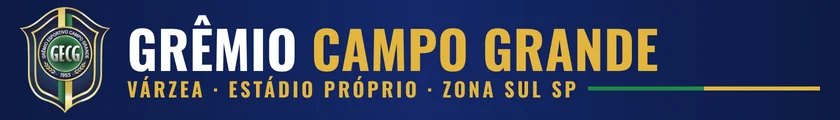
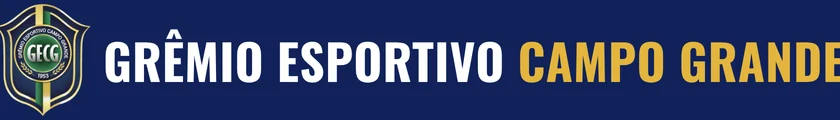
Grêmio Esportivo Campo Grande: nome inteiro, placas no formato da Tidex e mockup pro cliente
- Faixas 840x120 pra Vadico, OittoLabs e Grêmio (cheio: true), todas do tamanho da Tidex
- Aviso da comunidade com o escudo dentro da caixa
- Página de mockup com todos os lugares onde a marca aparece + bancada scripts/teste-parceiro

Claude-Session: https://claude.ai/code/session_012GPrTDbpvrApA6DArkzCpE

diff --git a/src/escalacao/patrocinio.ts b/src/escalacao/patrocinio.ts
@@ -13,8 +13,9 @@ import { buscaVitrine, podioPassada } from './vitrine-dados' // 🏆 pódio da s
 import { clasLiberado } from './cla-gate' // ⚔ pódio dos clãs no letreiro (21/10)
 import VADICO_LOGO_ALFA from './img/patro-vadico-alfa.webp'
 import TIDEX_LOGO from './img/patro-tidex.webp' // 🤖 Tidex (19/10): Copa dos 8, placa do campinho e telão no lugar da Max Joias
+import VADICO_PLACA from './img/placa-vadico.webp' // 🏟 23/10: placas no padrão da Tidex (faixa deitada que enche a placa)
+import OITTO_PLACA from './img/placa-oittolabs.webp'
 import GECG_PLACA from './img/patro-gecg-placa.webp' // ⚽ Grêmio Campo Grande (23/10): placa deitada (escudo + nome) revezando com a Tidex
-import OITTO_LOGO from './img/patro-oittolabs.webp' // 🧪 OittoLabs (21/10): Copa dos 8, Copa do Brasil da carreira, placas, telão e Master
 
 export type Patrocinio = { nome: string; emoji: string }
 export type Competicao = 'copa8' | 'liberta' | 'world' | 'club-world' | 'league' | 'champions' | 'career-league' | 'career-copa' | 'regional' | 'career-varzea' // career-varzea = a liga da carreira na VÁRZEA (23/10) · regional = Copas Regionais (Rio × SP, Sul-Minas, Nordeste) — 23/10 · career-league = a Liga Legends da CARREIRA (19/10) · career-copa = a Copa do Brasil da carreira (21/10)
@@ -133,8 +134,8 @@ const OITTO_GIRO = '🧪 OittoLabs · Contabilidade e BPO financeiro pra sua emp
 // ⚽ Grêmio Esportivo Campo Grande (23/10): clube de várzea com estádio próprio (~10 mil lugares) em Jurubatuba, Zona Sul de SP;
 // objetivo deles = gente no estádio nos fins de semana e aluguel do campo pra torneios. A linha de verdade mora em
 // `esc_anuncios_fixos`; isto é a reserva.
-const GECG_GIRO = '⚽ Grêmio Campo Grande · Estádio próprio na Zona Sul SP · Vem pro jogo · Clique aqui'
-const GECG_ZAP = 'https://wa.me/5511976509180?text=' + encodeURIComponent('Olá! Vim pelo Leilão Legends e queria saber dos jogos do Grêmio Campo Grande no fim de semana.')
+const GECG_GIRO = '⚽ Grêmio Esportivo Campo Grande · Estádio próprio na Zona Sul SP · Clique aqui'
+const GECG_ZAP = 'https://wa.me/5511976509180?text=' + encodeURIComponent('Olá! Vim pelo Leilão Legends e queria saber dos jogos do Grêmio Esportivo Campo Grande no fim de semana.')
 const GIRO_MANUAIS: { texto: string; cor: string; link?: string }[] = [
   { texto: '▶ Kelvin Oliveira · Siga o novo canal do K9 no YouTube', cor: '#FFC400', link: 'https://www.youtube.com/@kelvink9oliveira' },
   { texto: TIDEX_GIRO, cor: '#FFC400', link: TIDEX_ZAP }, // 🤖 19/10: no lugar da Max Joias
@@ -196,20 +197,23 @@ export function releAnuncios() { lidoEm = 0; carregaAvulsos() }
 // 🏟 PLACAS ATRÁS DOS GOLS (17/10, Diego escolheu a ideia 1 do mockup `scripts/mockups/campinho-outras-ideias.png`: *"perfeito
 // pode fazer mas no momento coloque Vadico Veículos e Max Joias"*). Uma placa em cima e outra embaixo de todo campinho, cada uma
 // numa marca, trocando juntas a cada 7 s no MESMO relógio do Anúncio do dia. Com 1 marca só, a outra placa mostra Leilão Legends.
-export type PlacaCampo = { nome: string; logo?: string; prop?: number; fundo: string }
+export type PlacaCampo = { nome: string; logo?: string; prop?: number; fundo: string; cheio?: boolean } // cheio = a arte já é a FAIXA inteira (fundo incluso): ocupa a placa de ponta a ponta na altura
 const PLACAS_CAMPO: PlacaCampo[] = [
-  { nome: 'Vadico Veículos', logo: VADICO_LOGO_ALFA, prop: 496 / 140, fundo: '#ffffff' },
-  { nome: 'OittoLabs', logo: OITTO_LOGO, prop: 331 / 120, fundo: '#ffffff' }, // 🧪 21/10: revezando com a Vadico (cima ↔ baixo), igual placa de estádio
+  // 🏟 23/10 (Diego: "ajustar os patrocínios existentes p se enquadrar e ficar parecido com o da Tidex"): cada marca virou uma FAIXA
+  //    deitada do mesmo formato da Tidex (840×120: logo + frase), então todas enchem a placa do mesmo jeito.
+  { nome: 'Vadico Veículos', logo: VADICO_PLACA, prop: 840 / 120, fundo: '#ffffff', cheio: true },
+  { nome: 'OittoLabs', logo: OITTO_PLACA, prop: 840 / 120, fundo: '#ffffff', cheio: true }, // 🧪 21/10: revezando com a Vadico (cima ↔ baixo), igual placa de estádio
   { nome: 'Tidex', logo: TIDEX_LOGO, prop: 837 / 120, fundo: '#0B1220' },
   // ⚽ 23/10 (Diego: "reveza com a Tidex… como é placa de campinho precisamos de uma ideia pra ele ficar na horizontal"): o escudo é
   //    vertical, então a placa é uma faixa DEITADA feita pra ela — escudo + "GRÊMIO CAMPO GRANDE" no azul do clube.
-  { nome: 'Grêmio Campo Grande', logo: GECG_PLACA, prop: 840 / 120, fundo: '#14286A' }, // 🤖 19/10: no lugar da Max Joias (fundo escuro, como o site deles)
+  { nome: 'Grêmio Esportivo Campo Grande', logo: GECG_PLACA, prop: 840 / 120, fundo: '#11225A', cheio: true }, // 🤖 19/10: no lugar da Max Joias (fundo escuro, como o site deles)
 ]
 /** 📐 TAMANHO DA MARCA NA PLACA (21/10, Diego: *"a Tidex está perfeita… a Vadico e a OittoLabs estão desproporcionais e pequenas…
  *  tem que seguir o padrão da Tidex"*). Antes toda marca tinha a MESMA altura (72% da placa), então a marca comprida (Tidex, 7:1)
  *  enchia a placa e a mais quadrada (Vadico 3,5:1 · OittoLabs 2,8:1) ficava miúda. Agora todas miram a LARGURA da Tidex, e a
  *  mais quadrada cresce até 92% da altura da placa pra chegar o mais perto possível. A Tidex continua exatamente igual. */
-export function tamanhoMarcaNaPlaca(alt: number, prop: number, larguraMax: number): { w: number; h: number } {
+export function tamanhoMarcaNaPlaca(alt: number, prop: number, larguraMax: number, cheio?: boolean): { w: number; h: number } {
+  if (cheio) { const w = Math.min(larguraMax, alt * prop); return { w, h: w / prop } } // 🏟 23/10: faixa pronta enche a placa
   const alvo = Math.min(larguraMax, alt * 0.72 * (837 / 120))
   const h = Math.min(alt * 0.92, alvo / prop, alt * 0.72 * Math.max(1, (837 / 120) / prop))
   return { w: h * prop, h }

diff --git a/scripts/teste-parceiro/main.tsx b/scripts/teste-parceiro/main.tsx
@@ -1,0 +1,19 @@
+// 🧪 Bancada do PARCEIRO (23/10): as peças de verdade onde a marca aparece — palco "apresentada por" (copa regional e liga da
+// Várzea), as placas do campinho (?placa=0..3 escolhe qual vai em cima) e o telão com a linha da marca.
+import '../../src/index.css'
+import { createRoot } from 'react-dom/client'
+import { CompetitionStage } from '../../src/escalacao/online-match-visual'
+import { CareerCompetitionStage } from '../../src/escalacao/career-match-visual'
+import { PlacaGol } from '../../src/escalacao/patrocinio-visual'
+import { GiroDaRodada } from '../../src/escalacao/screens'
+import { EscCtxBancada } from '../../src/escalacao/store'
+const q = new URLSearchParams(location.search)
+const ver = q.get('ver') ?? 'tudo'
+const giro = [{ texto: '⚽ Grêmio Esportivo Campo Grande · Estádio próprio na Zona Sul SP · Clique aqui', cor: '#FFC400', link: '#' }]
+const st = { screen: 'season', youIdx: 0, onlineMode: 'offline', sport: 'futebol', managers: [] }
+createRoot(document.getElementById('root')!).render(<EscCtxBancada.Provider value={{ state: st, dispatch: () => {} } as never}>
+  {(ver === 'tudo' || ver === 'regional') && <div className="peca" id="regional"><CompetitionStage kind="copa8" patroKind="regional" title="COPA RIO × SÃO PAULO" phase="Fase de grupos · rodada 1" detail="Cada clube enfrenta os do outro lado." status="Bola rolando · acompanhe os confrontos" /></div>}
+  {(ver === 'tudo' || ver === 'varzea') && <div className="peca ll29-career" id="varzea"><CareerCompetitionStage varzea kind="league" title="TEMPORADA 1 · LIGA LEGENDS" phase="Várzea · Rodada 1/38" detail="" status="Bola rolando" /></div>}
+  {(ver === 'tudo' || ver === 'placa') && <div className="peca" id="placa" style={{ width: 420, border: '3px solid #000' }}><PlacaGol lado="cima" alt={36} /><div style={{ height: 180, background: 'repeating-linear-gradient(180deg,#2f8a3e 0 30px,#2a7c38 30px 60px)' }} /><PlacaGol lado="baixo" alt={36} /></div>}
+  {(ver === 'tudo' || ver === 'telao') && <div className="peca" id="telao"><GiroDaRodada exemplos={giro as never} /></div>}
+</EscCtxBancada.Provider>)

diff --git a/src/escalacao/estadiodata.ts b/src/escalacao/estadiodata.ts
@@ -147,7 +147,7 @@ export const SPONSOR_BRANDS: SponsorBrand[] = [
   { id: 'oittolabs',   name: 'OittoLabs',            emoji: '🧪', color: '#1C3A5E', tier: 1, logo: 'oittolabs' },
   // ⚽ marca REAL do Master (23/10, Diego: "troque o ERO por esse patrocinador"): Grêmio Esportivo Campo Grande, clube de várzea com
   //    estádio próprio em Jurubatuba (Zona Sul de SP). Pega o lugar da ERO (3 temporadas); contrato da ERO correndo vai até o fim.
-  { id: 'gecg',        name: 'Grêmio Campo Grande',  emoji: '⚽', color: '#14286A', tier: 3, logo: 'gecg' },
+  { id: 'gecg',        name: 'Grêmio Esportivo Campo Grande', emoji: '⚽', color: '#14286A', tier: 3, logo: 'gecg' },
 ]
 export function sponsorBrandsOfTier(tier: SponsorBetTier): SponsorBrand[] { return SPONSOR_BRANDS.filter(b => b.tier === tier) }
 export function sponsorBrandOf(id?: string): SponsorBrand | undefined { return SPONSOR_BRANDS.find(b => b.id === id) }

diff --git a/src/escalacao/patrocinio-visual.tsx b/src/escalacao/patrocinio-visual.tsx
@@ -72,7 +72,7 @@ export function PlacaGol({ lado, alt = 30 }: { lado: 'cima' | 'baixo'; alt?: num
       <style>{CSS_PLACA}</style>
       <div className="pgol-in" key={slot}>
         {p.logo
-          ? (() => { const m = tamanhoMarcaNaPlaca(alt, p.prop ?? 3, alt * 12); return <img src={p.logo} alt={p.nome} draggable={false} style={{ height: Math.round(m.h), width: Math.round(m.w), objectFit: 'contain', display: 'block' }} /> })()
+          ? (() => { const m = tamanhoMarcaNaPlaca(alt, p.prop ?? 3, alt * 12, p.cheio); return <img src={p.logo} alt={p.nome} draggable={false} style={{ height: Math.round(m.h), width: Math.round(m.w), objectFit: 'contain', display: 'block' }} /> })()
           : <b style={{ font: `700 ${Math.round(alt * 0.5)}px Oswald, sans-serif`, letterSpacing: '.08em', textTransform: 'uppercase', color: '#0C0C0C' }}>{p.nome}</b>}
       </div>
     </div>

diff --git a/src/escalacao/campo2d.tsx b/src/escalacao/campo2d.tsx
@@ -272,7 +272,7 @@ export function Campo2D({ roundKey, casa, fora, gols, roundMs, minuto, fechado, 
           g.fillStyle = fundo; g.fillRect(x0 + i * w + 1, yy, w - 2, alt)
           const logo = p.logo ? img(p.logo) : null
           if (logo && logo.complete && logo.naturalWidth) {
-            const { w: lw, h } = tamanhoMarcaNaPlaca(alt, p.prop ?? 3, w - 10) // 📐 o padrão da Tidex (21/10)
+            const { w: lw, h } = tamanhoMarcaNaPlaca(alt, p.prop ?? 3, w - 10, p.cheio) // 📐 o padrão da Tidex (21/10)
             g.drawImage(logo, x0 + i * w + w / 2 - lw / 2, yy + alt / 2 - h / 2, lw, h)
           } else {
             g.fillStyle = claro(fundo) ? INK : '#fff'; g.font = fonte(alt * 0.55); g.textAlign = 'center'; g.fillText(p.nome.toUpperCase(), x0 + i * w + w / 2, yy + alt * 0.7)

diff --git a/scripts/teste-parceiro/index.html b/scripts/teste-parceiro/index.html
@@ -1,0 +1,5 @@
+<!doctype html><html><head><meta charset="utf-8"><meta name="viewport" content="width=device-width, initial-scale=1.0"><title>bancada · parceiro</title>
+<link href="https://fonts.googleapis.com/css2?family=Oswald:wght@400;500;700;900&display=swap" rel="stylesheet">
+<script>try{localStorage.setItem("bl_lang","pt")}catch(e){}</script>
+<style>body{background:#14100b;margin:0}#root{max-width:760px;margin:0 auto;padding:16px}.peca{margin-bottom:22px}</style></head><body><div id="root"></div>
+<script type="module" src="/scripts/teste-parceiro/main.tsx"></script></body></html>

diff --git a/docs/pendencias.md b/docs/pendencias.md
@@ -2,10 +2,13 @@
 Clube de várzea com estádio próprio (~10 mil) em Jurubatuba, Zona Sul de SP. Objetivo: gente no estádio no fim de semana + aluguel
 do campo. Link = WhatsApp (11) 97650-9180 com mensagem pronta.
 - Master da carreira: entra no lugar da ERO (3 temporadas, `gecg`); contrato da ERO correndo vai até o fim. Logo `patro-gecg.webp`.
-- Placa do campinho: faixa DEITADA feita pra ela (escudo + "GRÊMIO CAMPO GRANDE", `patro-gecg-placa.webp`), logo depois da Tidex.
+- Placa do campinho: faixa DEITADA feita pra ela (escudo + "GRÊMIO ESPORTIVO CAMPO GRANDE", `patro-gecg-placa.webp`), logo depois da Tidex.
+  Vadico e OittoLabs ganharam faixa no MESMO formato (840×120, `placa-vadico.webp`/`placa-oittolabs.webp`, `cheio: true`) pra ficarem do tamanho da Tidex (pedido dele).
+- Nome SEMPRE inteiro: "Grêmio Esportivo Campo Grande" (pedido dele).
 - "Apresentada por": Copas Regionais (`regional`) e a liga da carreira NA VÁRZEA (`career-varzea`; as outras divisões seguem Tidex).
 - Telão: linha nova em `esc_anuncios_fixos` NA HORA DE PUBLICAR (reserva no código: `GECG_GIRO`).
-- Aviso da comunidade: `scripts/avisos/2026-10-23-parceiro-gecg.json` → `scripts/posts/aviso-2026-10-23-parceiro-gecg.png`.
+- Aviso da comunidade: `scripts/avisos/2026-10-23-parceiro-gecg.json` → `scripts/posts/aviso-2026-10-23-parceiro-gecg.png` (escudo dentro da caixa).
+- Mockup pro cliente (todos os lugares): `scripts/posts/gecg-no-leilao-legends.png`. Bancada: `scripts/teste-parceiro/`.
 
 ## 🏆 Minhas Ligas: trocar também o que vem depois da liga (23/10) — FEITO e publicado
 - Pedido: *"no minhas ligas falta deixar a pessoa poder mudar as ligas também, tipo liga sozinha, liga mais copa, regionais…
